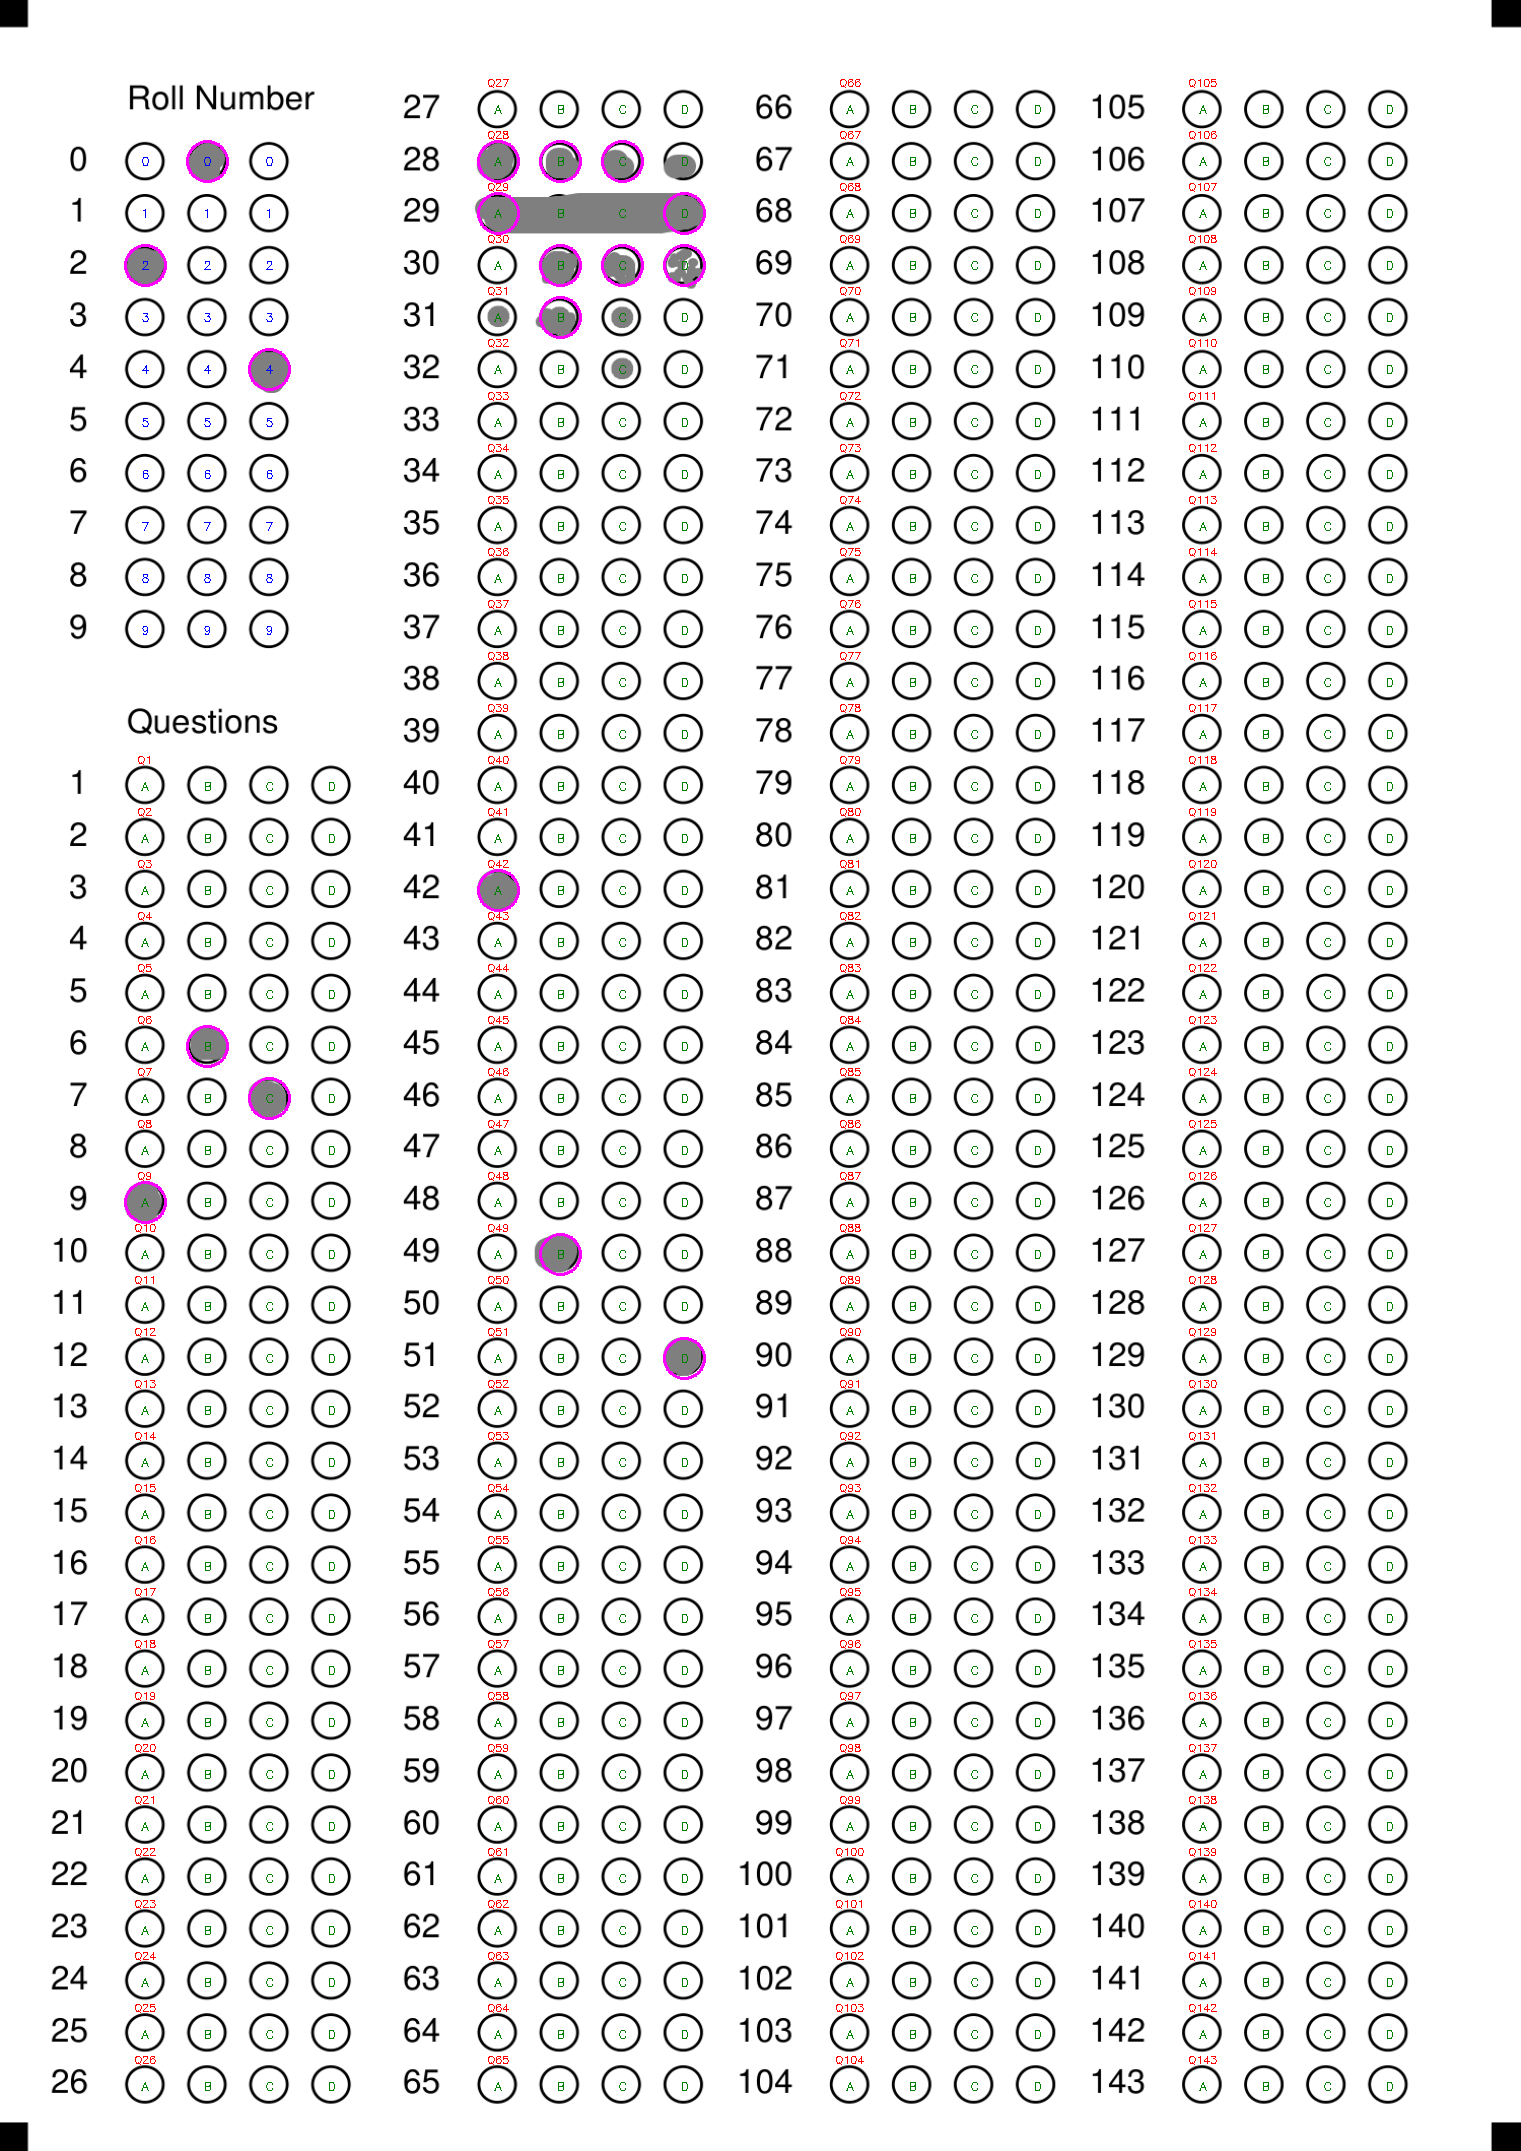
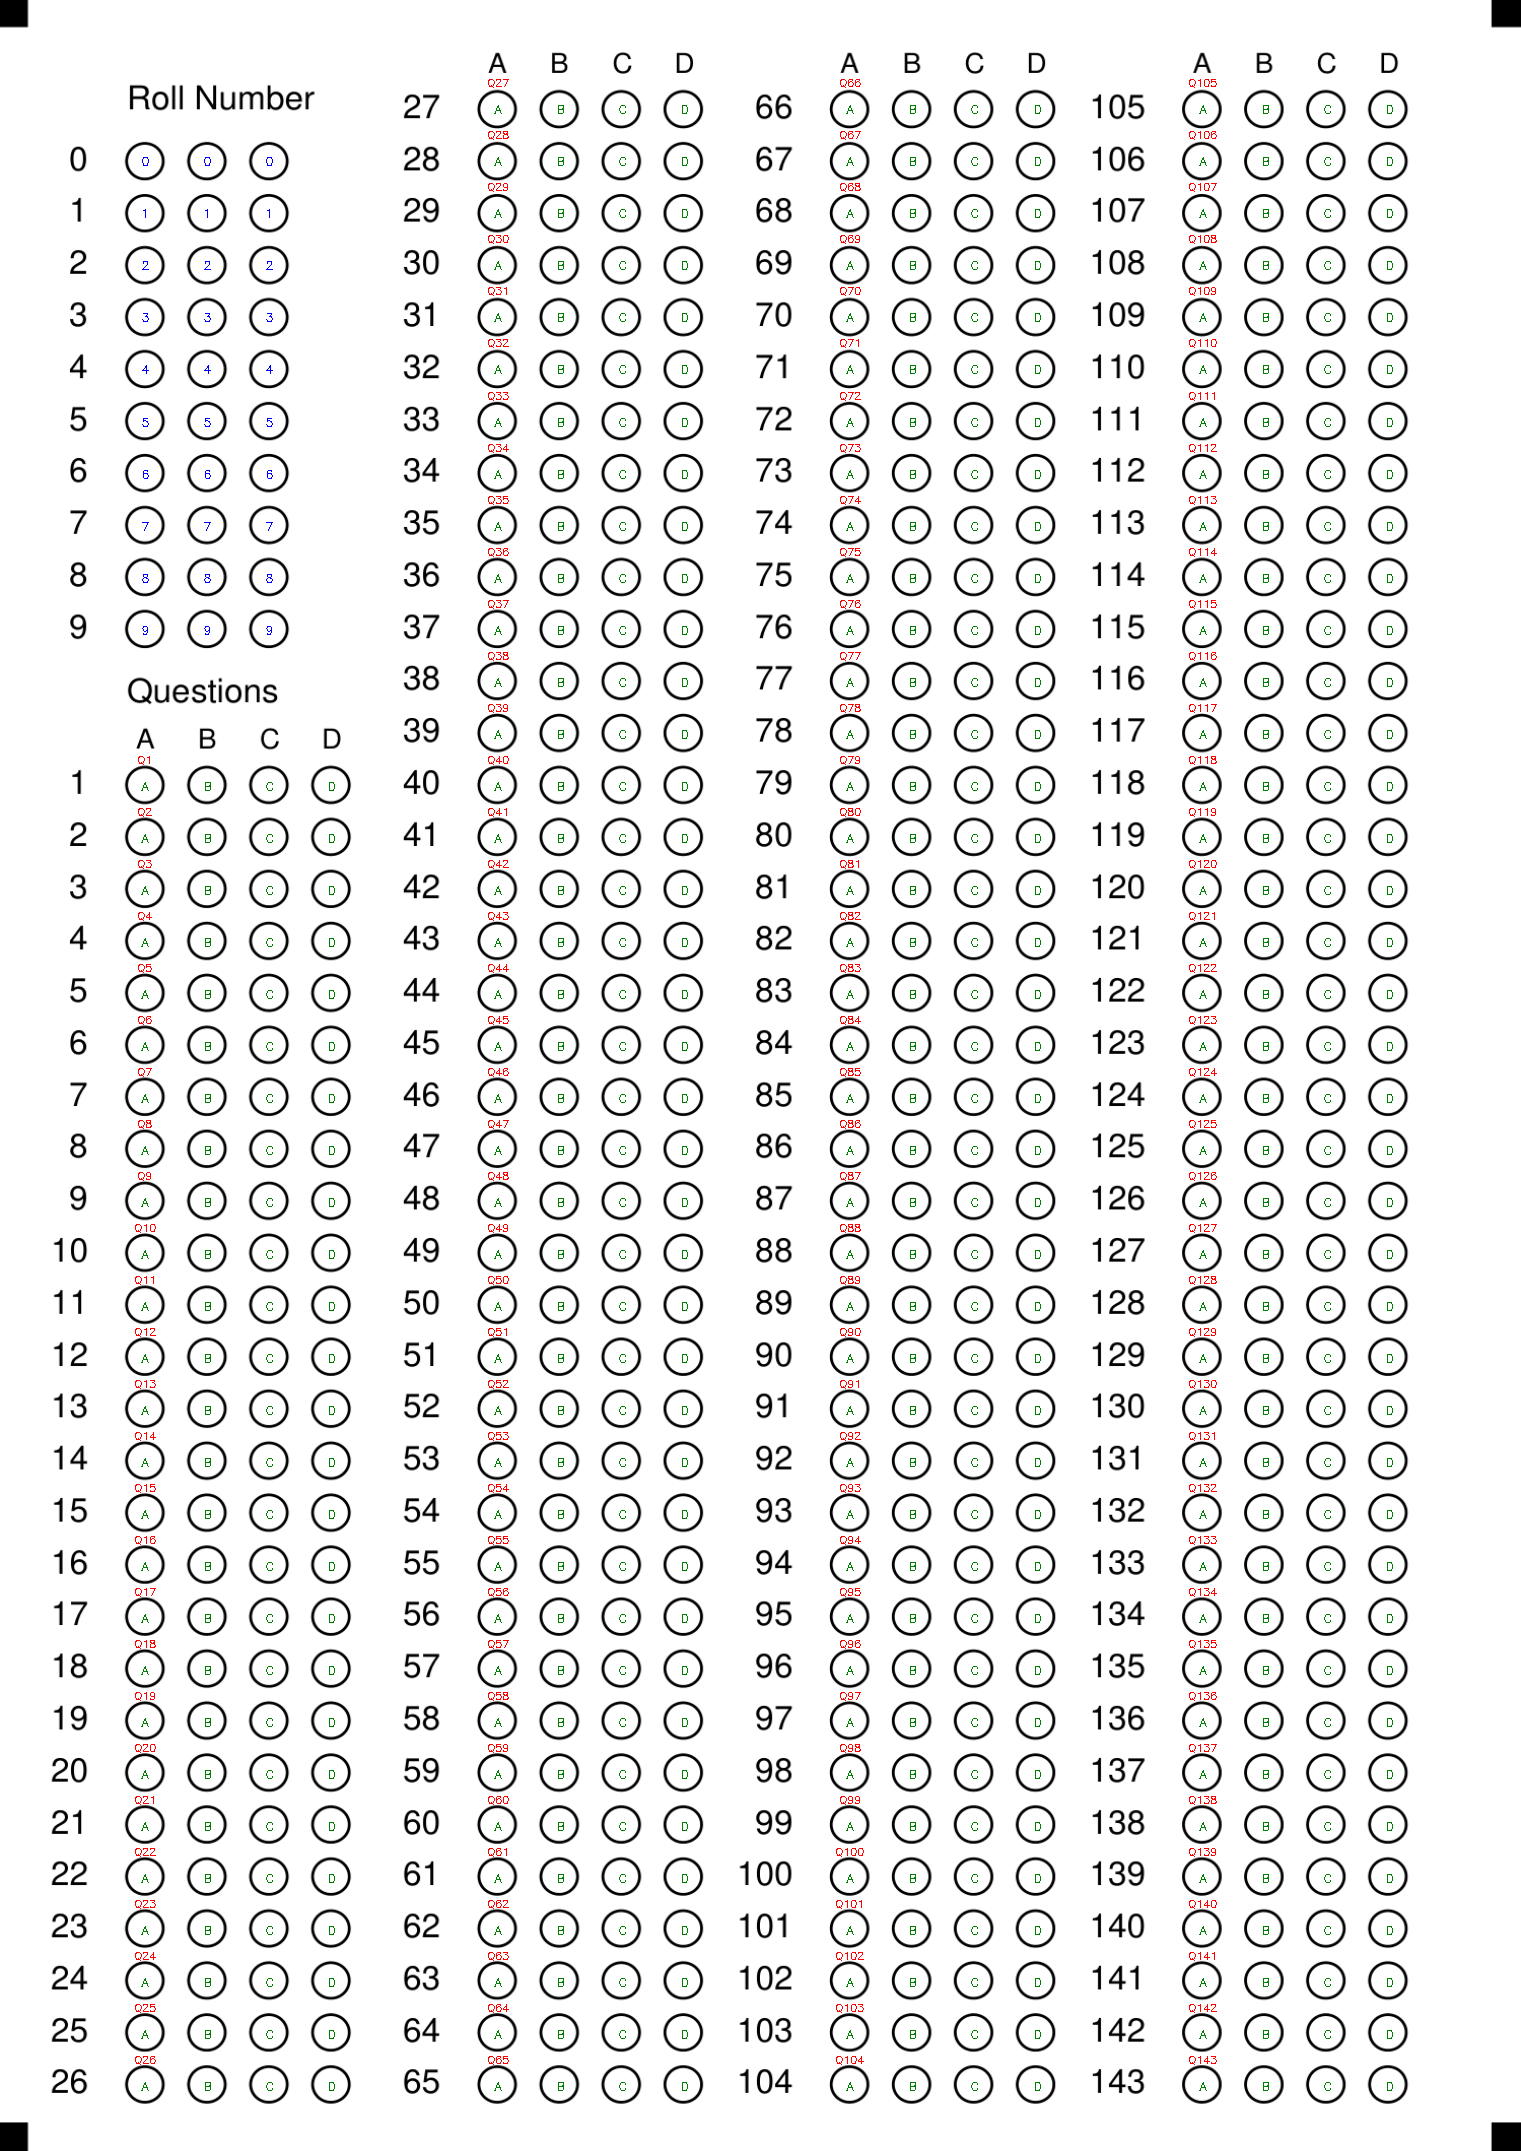
Add option headers (A, B, C, D) above answer bubbles
Improve sheet usability by displaying letter labels above each answer
option column. The Questions label is repositioned above the option
headers to maintain clear visual hierarchy and prevent overlap.

diff --git a/omr_sheet_generator.py b/omr_sheet_generator.py
@@ -10,6 +10,7 @@ The resulting PDF is saved inside the ``sheets/`` directory.
 """
 from __future__ import annotations
 
+import string
 from io import BytesIO
 from pathlib import Path
 from typing import Iterable, List
@@ -161,6 +162,31 @@ def draw_question_columns(
 
     content.set_line_width(1)
     content.set_stroke_color(0, 0, 0)
+
+    # Find topmost bubble per question_column for header placement
+    topmost_per_column = {}
+    for bubble in bubbles:
+        if bubble.question_column is not None:
+            col = bubble.question_column
+            if col not in topmost_per_column or bubble.y > topmost_per_column[col]:
+                topmost_per_column[col] = bubble.y
+
+    # Draw option headers (A, B, C, D) above each column
+    for col, top_y in topmost_per_column.items():
+        column_origin = geom.margin + col * layout.group_width(sheet.question_options)
+        x_base = column_origin + layout.label_column_width + layout.column_padding / 2
+
+        # Position headers above topmost bubble with comfortable spacing
+        header_y = top_y + layout.vertical_gap * 0.7
+
+        for opt in range(sheet.question_options):
+            # Calculate x exactly as bubbles do (matching omr_layout.py logic)
+            x = x_base + layout.radius + opt * (layout.diameter + layout.option_gap)
+            letter = string.ascii_uppercase[opt]
+
+            # Center text horizontally on bubble (adjust x by ~half char width)
+            text_offset = 3.25  # Approximate half-width of a letter at size 10
+            content.draw_text(x - text_offset, header_y, letter, size=10)
 
     # First pass: find max question number per column
     max_question_per_column = {}

diff --git a/omr_layout.py b/omr_layout.py
@@ -158,12 +158,12 @@ def calculate_questions_label_position(
     layout: BubbleLayout,
     sheet: SheetLayout,
 ) -> tuple[float, float]:
-    """Calculate the position for 'Questions' label.
+    """Calculate the position for 'Questions' label above option headers.
 
     Returns:
         (x, y) coordinates for the label, or (0, 0) if no valid position
     """
-    # Recalculate the geometry to find the label row
+    # Recalculate the geometry to find the first question bubble
     top_y = geom.height - geom.margin - layout.diameter
     # Account for the extra row used by the Roll Number label
     roll_bottom = top_y - (sheet.roll_rows + 1) * layout.vertical_gap - layout.radius
@@ -184,13 +184,17 @@ def calculate_questions_label_position(
         len(row_centers),
     )
 
-    # Label goes at the row after first_column_start
-    label_row_index = first_column_start + 1
-    if label_row_index >= len(row_centers):
+    # First question bubble in column 0 starts at first_column_start + 2
+    first_question_row = first_column_start + 2
+    if first_question_row >= len(row_centers):
         return 0, 0  # No valid position
 
+    # Position label well above the option headers for clear separation
+    # Headers are at topmost_y + 0.7 * vertical_gap
+    # Label should be significantly higher to avoid overlap
+    topmost_bubble_y = row_centers[first_question_row]
     label_x = geom.margin + layout.label_column_width + layout.column_padding / 2
-    label_y = row_centers[label_row_index]
+    label_y = topmost_bubble_y + layout.vertical_gap * 1.6
 
     return label_x, label_y
 
